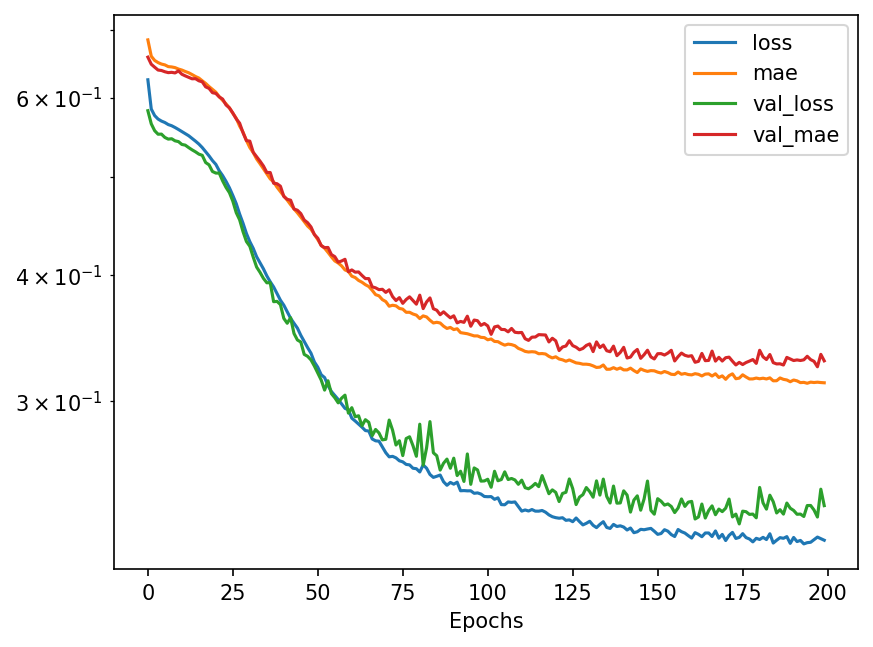
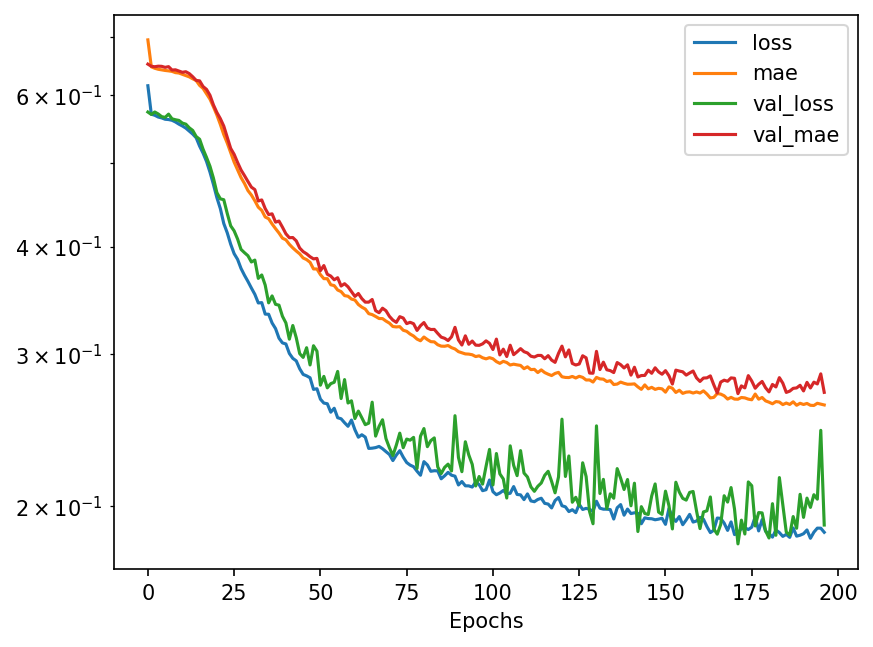
Updated Convergence

diff --git a/Neural Network/MultiAdjust/PhysicalAlignment.py b/Neural Network/MultiAdjust/PhysicalAlignment.py
@@ -11,8 +11,8 @@ from XYMoveSamples import generate_samples
 from picoMotor import send, setup, move, get_pos, cleanup
 
 n_samples = 5000
-step = 50
-moves = 4 
+step = 25
+moves = 4
 
 SEED = 7 # Keep the same as Laser Alignment
 np.random.seed(SEED)
@@ -45,58 +45,61 @@ laser_mod.model.load_weights('laser.weights.h5')
 
 def read_power():
     data = osc.get_data()
-    return sum(data['ch1']) / len(data['ch1']) * 6
+    return sum(data['ch1']) / len(data['ch1']) * 6.45
 
 def look_for_signal():
-    # Square-spiral search outward from the current position until the beam is
-    # reacquired. Updates current_power and the move history (axis/direction/pwr)
-    # so the model has fresh data when control returns to the main loop.
-    global current_power, axis, direction, pwr, peak, peak_count
-
+    
     # (axis, direction, scale) - scale equalizes physical distance per direction
     # from measured 10-box strafe times: x+ 376, x- 396, y+ 271, y- 304
-    legs = [(0, 1, 1.39),   # +X 1.39
-            (1, 1, 1.00),   # +Y 1.00
-            (0, -1, 1.46),  # -X 1.46
-            (1, -1, 1.12)]  # -Y 1.12
-    base_step = 100     # step size on the first ring (keep <= beam width so it isn't skipped)
-    growth = 50        # step grows this much each leg, so the spiral expands faster
+    if driver == 2:
+        legs = [(0, 1, 1.39),   # +X 1.39   (Put offsets in the third spot)
+                (1, 1, 1),      # +Y 1.00
+                (0, -1, 1.46),  # -X 1.46
+                (1, -1, 1.12)]  # -Y 1.12
+    elif driver == 1:
+         legs = [(0, 1, 1.84),  # +X 1.84   (Put offsets in the third spot)
+                (1, 1, 1),      # +Y 1.00
+                (0, -1, 1.53),  # -X 1.53
+                (1, -1, 1.01)]  # -Y 1.01
+    base_step = 50     # step size on the first ring (keep <= beam width so it isn't skipped)
+    growth = 25        # step grows this much each leg, so the spiral expands faster
     seg_len = 1         # leg lengths grow 1,1,2,2,3,3,...
     leg = 0
     velocity = 1000
-    send(f'vel a1 0={velocity}') 
-    send(f'vel a1 1={velocity}') 
-    peak = 0
-    peak_count = 0
+    send(f'vel a{driver} 0={velocity}')
+    send(f'vel a{driver} 1={velocity}')
 
-    while current_power < .01: # Need at least .01 mW
+    while True:
 
         move_axis, move_dir, scale = legs[leg % 4]
         search_step = int((base_step + growth * leg) * scale)   # scaled so each direction covers equal distance
 
         for _ in range(seg_len):
-            # Record this move + the power before it, newest in slot [0]
-            axis = [move_axis, axis[0], axis[1], axis[2]]
-            direction = [move_dir,  direction[0], direction[1], direction[2]]
-            pwr = [current_power, pwr[0], pwr[1], pwr[2]]
+
+            search_power = read_power()
+            # Plot the spiral scan
+            """
+            Xmoves.append(pos[0])
+            Ymoves.append(pos[1])
+            Pmoves.append(search_power)
+            plot_path()
+            """
+
+            # Check before each move so a beam crossing isn't skipped mid-leg.
+            if search_power >= .01:   # Found the beam
+                velocity = 100
+                send(f'vel a{driver} 0={velocity}')
+                send(f'vel a{driver} 1={velocity}')
+                xy_start()
+                reset()
+                return
 
             move(move_axis, move_dir, search_step, velocity, driver)
-            current_power = read_power()
-
-            if current_power >= .005:   # Found the beam
-                velocity = 100
-                send(f'vel a1 0={velocity}') 
-                send(f'vel a1 1={velocity}') 
-                return
 
         leg += 1
         if leg % 2 == 0:               # Grow the spiral every two legs
             seg_len += 1
         print('No signal - Scanning')
-
-def joystick_for_signal():
-    send('mof')
-    send('jon')
 
 def plot_path():
     X = np.array(Xmoves, dtype=float)
@@ -144,7 +147,6 @@ def reset():
     Pmoves = []
 
 try:
-
     velocity = 100
     setup(velocity)
 
@@ -153,12 +155,17 @@ try:
     driver = 1
     xy_start()
     reset()
+
     peak = 0
-    peak_count = 0
 
     plt.ion()   # interactive mode so the plot updates live without blocking moves
 
     while True: # Run the model and make the resulting moves
+
+        if driver == 2:
+            ratio = [1.39, 1.00, 1.46, 1.12] # [+X, +Y, -X, -Y]
+        elif driver == 1:
+            ratio = [1.84, 1.00, 1.53, 1.01] # [+X, +Y, -X, -Y]
         
         current_power = read_power()
         time.sleep(.1)
@@ -177,10 +184,10 @@ try:
         axis[3], direction[3], pwr[3],   # 4 moves ago
         ]])
 
-        result = laser_mod.predict(move_set, scale=True, unscale_output=True)[0]  # result = [0,1],[0,-1],[1,0], or [-1,0] 
+        result = laser_mod.predict(move_set, scale=True, unscale_output=True)[0] 
 
-        # Figure out what axis and direction the move was
-        step = (int)(result[1]) # Step = the second part of the result
+        # Step = the second part of the result
+        step = round(result[1])
 
         # Alternate the axis from the last move
         if axis[0] == 0:
@@ -188,6 +195,7 @@ try:
         else:
             move_axis = 0
         move_dir = 1 if result[0] > 0 else -1
+
         if move_axis == 0:
             pos[0] += step * move_dir
             print(f'The next move will be in the {"+X" if move_dir > 0 else "-X"} direction')
@@ -199,30 +207,32 @@ try:
 
         # Shift history back one slot, the most recent move goes into [0]
         axis =      [move_axis,     axis[0],      axis[1],      axis[2]]
-        direction = [move_dir,      direction[0], direction[1], direction[2]] 
+        direction = [move_dir,      direction[0], direction[1], direction[2]]
         pwr =       [current_power, pwr[0],       pwr[1],       pwr[2]]
 
-        print(f'Amount of moves without reaching the max power of {peak:.2f}: {peak_count}')  
         # If it doesn't find a new max, get back to the max
-        if peak_count >= 5 and current_power >= peak*.98:
+        
+        if (((max(pwr) - min(pwr)) <= .025*peak) and (min(pwr) > .1) or (len(Xmoves) > 50)):
             if driver == 1: driver = 2
             else: driver = 1 
-            print(f'CENTER REACHED - PLEASE MOVE THE METER TO IRIS {driver}')
+            print(f'CENTER REACHED IN {len(Xmoves)} MOVES, PLEASE MOVE THE METER TO IRIS {driver}')
             time.sleep(10)
             xy_start()
             reset()
-            peak = 0
-            peak_count = 0
             continue
 
         if current_power > peak:
             peak = current_power
-            peak_count = 0
-        else:
-            peak_count += 1
+        print(f'The peak power so far is {peak:.2f}')
 
         if max(pwr) < .01:
-            look_for_signal()
+            look_for_signal()   
+
+        # This block normalizes the steps based on their known offsets
+        if   move_axis == 0 and move_dir == 1:  step = (int)(step*ratio[0])
+        elif move_axis == 1 and move_dir == 1:  step = (int)(step*ratio[1])
+        elif move_axis == 0 and move_dir == -1: step = (int)(step*ratio[2])
+        elif move_axis == 1 and move_dir == -1: step = (int)(step*ratio[3])
 
         move(move_axis, move_dir, step, velocity, driver) # 1 for first mirror, 2 for second mirror
 

diff --git a/Neural Network/MultiAdjust/XYMoveSamples.py b/Neural Network/MultiAdjust/XYMoveSamples.py
@@ -149,6 +149,12 @@ def _generate_from_scan(npz_path, n_samples, moves, step, min_power_frac=0.005,
 
     # -------------------------------- Build the model rows from each spawn --------------------------------
 
+    # The actual beam peak in this scan. Every sample's power readings are
+    # rescaled so its effective max power is a random value in [0.5, 5]. This
+    # stops the model from keying off an absolute power level and lets it work
+    # with almost any peak power at deployment time.
+    peak_power = float(power[peak])
+
     mod_counts = np.zeros((n_total, 1 + moves * 3))  # Last data measurements and current power
     corrections = np.zeros((n_total, 2))             # Positive or negative direction
 
@@ -156,7 +162,12 @@ def _generate_from_scan(npz_path, n_samples, moves, step, min_power_frac=0.005,
 
         x = int(spawn_x[i])
         y = int(spawn_y[i])
-        current = get_power(x, y)
+
+        # Per-sample random max power: scale all readings so this scan's peak
+        # maps to a value drawn uniformly from [0.5, 5].
+        power_scale = random.uniform(0.5, 5.0) / peak_power
+
+        current = get_power(x, y) * power_scale
 
         axis = []
         direction = []
@@ -187,7 +198,7 @@ def _generate_from_scan(npz_path, n_samples, moves, step, min_power_frac=0.005,
 
             axis.append(temp_axis)
             direction.append(temp_dir)
-            pwr.append(get_power(xp, yp))  # power at that earlier position
+            pwr.append(get_power(xp, yp) * power_scale)  # power at that earlier position
 
         row = [current]                          # current power state
         for j in range(moves):                   # (j+1) moves ago
@@ -196,17 +207,19 @@ def _generate_from_scan(npz_path, n_samples, moves, step, min_power_frac=0.005,
 
         # clockwise
 
-        if axis[0] == 0: # Last move
-            test_powers= [get_power(x, y + step), get_power(x, y - step)] # If last was X, move Y
-            steps = abs(y)/5
-        else:
-            test_powers= [get_power(x + step, y), get_power(x - step, y)] # If last was Y, move X
-            steps = abs(x)/5
+        # Last move
+        if axis[0] == 0: # This move is Y
+            steps = abs(y)/4
+        else: # This move is X
+            steps = abs(x)/4
         corrections[i][1] = steps
 
-        if max(test_powers) == test_powers[0]: # If direction is positive
+        # Direction toward center (0,0) along THIS move's axis.
+        coord = y if axis[0] == 0 else x
+        if coord < 0:   # need to move + to reach center
             corrections[i][0] = 1
-        elif max(test_powers) == test_powers[1]: # If direction is negative
+        elif coord > 0: # need to move - to reach center
             corrections[i][0] = -1
+
 
     return mod_counts, corrections

diff --git a/Moku/BasicTesting/PicoTest.py b/Moku/BasicTesting/PicoTest.py
@@ -110,16 +110,15 @@ else:
     """
 
     # Run an x number of steps and see how much it really runs
-    """
-    pico.send('chl a1=0')
-    pico.send('rel a1 =-50000')
-    pico.send('go a1')
-    time.sleep(50000/95)
+    pico.send('chl a2=0')
+    pico.send('rel a2 =-5000')
+    pico.send('go a2')
+    time.sleep(5000/(1*100))
+    pico.send('sto')
     print(pico.get_pos())
-    """
 
     # Right then left
-    
+    """
     pico.send('chl a1=1')
     pico.send('for a1')
     pico.send('go a1')
@@ -134,7 +133,7 @@ else:
     time.sleep(800)
     pico.send('hal')
     pico.send('pos')
-    
+    """
 
     # Run a motor for x seconds
     """
@@ -159,14 +158,14 @@ else:
     # from measured 10-box strafe times: x+ 376, x- 396, y+ 271, y- 304
     if driver == 2:
         legs = [(0, 1, 1.39),   # +X 1.39   (Put offsets in the third spot)
-                (1, 1, 1),   # +Y 1.00
+                (1, 1, 1),      # +Y 1.00
                 (0, -1, 1.46),  # -X 1.46
                 (1, -1, 1.12)]  # -Y 1.12
     elif driver == 1:
-         legs = [(0, 1, 1),   # +X 1.39   (Put offsets in the third spot)
-                (1, 1, 1),   # +Y 1.00
-                (0, -1, 1),  # -X 1.46
-                (1, -1, 1)]  # -Y 1.12
+         legs = [(0, 1, 1.84),  # +X 1.84   (Put offsets in the third spot)
+                (1, 1, 1),      # +Y 1.00
+                (0, -1, 1.53),  # -X 1.53
+                (1, -1, 1.01)]  # -Y 1.01
     base_step = 100     # step size on the first ring (keep <= beam width so it isn't skipped)
     growth = 100        # step grows this much each leg, so the spiral expands faster
     seg_len = 1         # leg lengths grow 1,1,2,2,3,3,...
@@ -191,6 +190,6 @@ else:
         if leg % 2 == 0:               # Grow the spiral every two legs
             seg_len += 1
         print('No signal - Scanning')
-    """
+    """    
 
 pico.cleanup

diff --git a/Neural Network/MultiAdjust/LaserAlignment.py b/Neural Network/MultiAdjust/LaserAlignment.py
@@ -1,6 +1,5 @@
 import numpy as np
 import matplotlib.pyplot as plt
-import tensorflow as tf128
 import random
 
 from moku.nn import LinnModel
@@ -35,7 +34,7 @@ mod_counts, corrections = generate_samples(TRAIN_SCANS, n_samples, moves, step)
 laser_mod = LinnModel()
 laser_mod.set_training_data(training_inputs=mod_counts, training_outputs=corrections)
 out_dim = corrections.shape[1]
-model_definition = [(16, 'softsign'), (16, 'softsign'), (out_dim, 'linear')]
+model_definition = [(32, 'softsign'), (32, 'softsign'), (out_dim, 'linear')]
 laser_mod.construct_model(model_definition, show_summary=True, metrics=['mae'])
 history = laser_mod.fit_model(epochs=500, es_config={'patience':25, 'restore':True}, validation_split=0.1)
 
@@ -202,5 +201,5 @@ for i, name in enumerate(direction_names):
 print(f'Step-size MAE: {step_mae:.2f}')
 
 
-#laser_mod.model.save_weights('laser.weights.h5')
-#print('Weights saved')
+laser_mod.model.save_weights('laser.weights.h5')
+print('Weights saved')

diff --git a/Moku/BasicTesting/ReadMoku.py b/Moku/BasicTesting/ReadMoku.py
@@ -15,7 +15,7 @@ plt.ion() # Makes it earier to work with the graphs
 try:
     start_time = time.time()  # record start time
     
-    osc.set_timebase(0, .001) # Define the length of data you get with respect to time (+- .01 seconds from trigger point)
+    osc.set_timebase(0,.001) #(+- .001 seconds from trigger point)
 
     last_avg = 0
 

diff --git a/Neural Network/MultiAdjust/picoMotor.py b/Neural Network/MultiAdjust/picoMotor.py
@@ -43,7 +43,7 @@ def move(axis, direction, step, velocity, driver):
     if driver == 2: send(f'rel a{driver} ={-step*direction}')
     else:           send(f'rel a{driver} ={step*direction}')
     send('go')
-    time.sleep(abs(step)/(velocity*.95))
+    time.sleep(abs(step)/(velocity))
 
 def get_pos():
     while True: